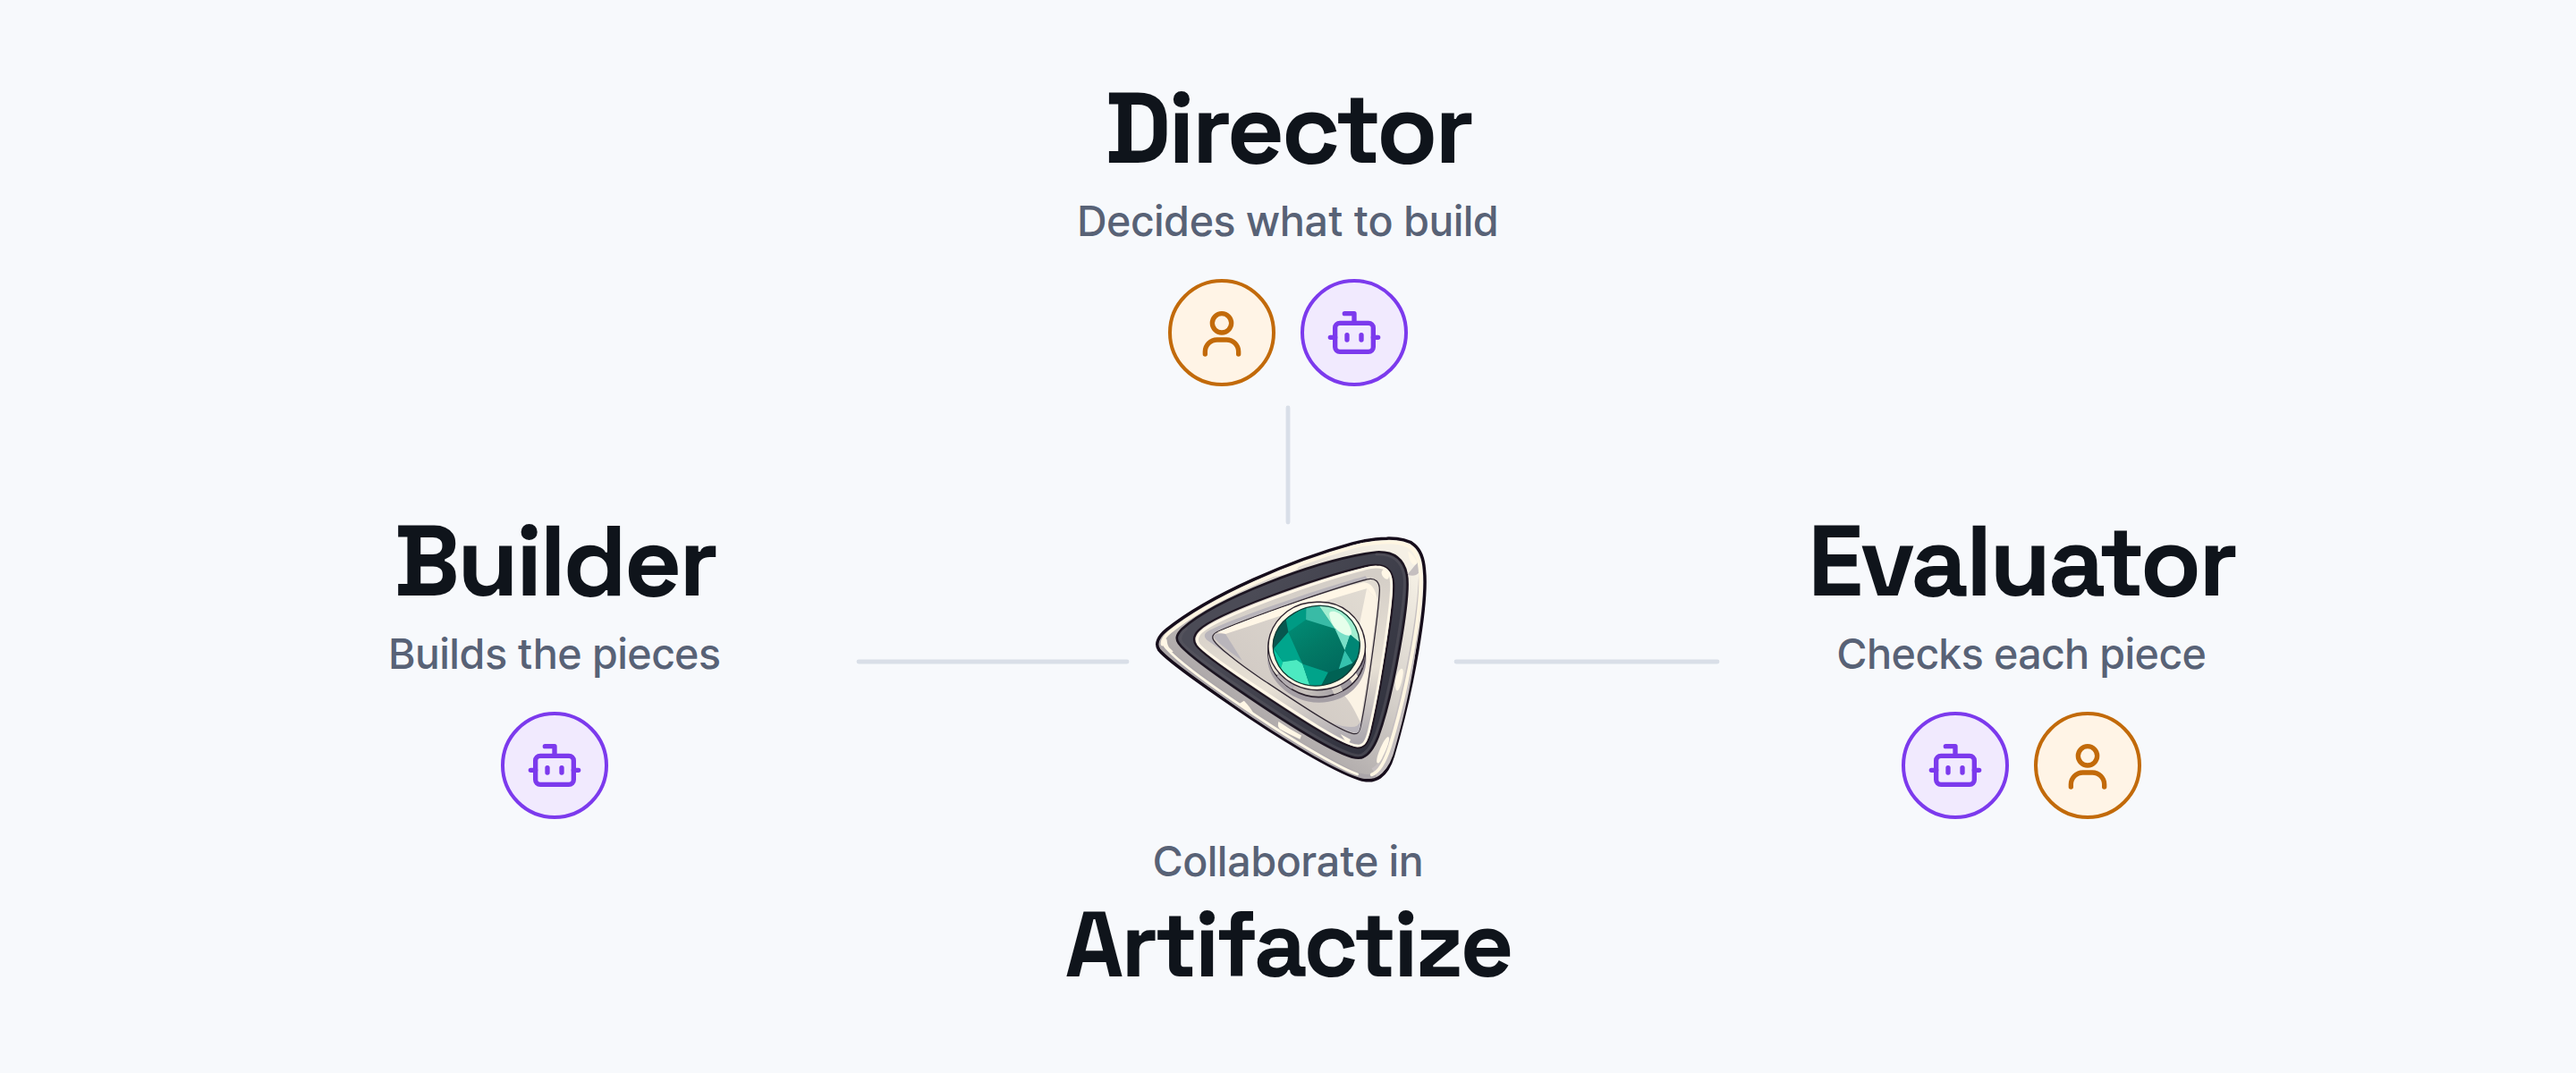
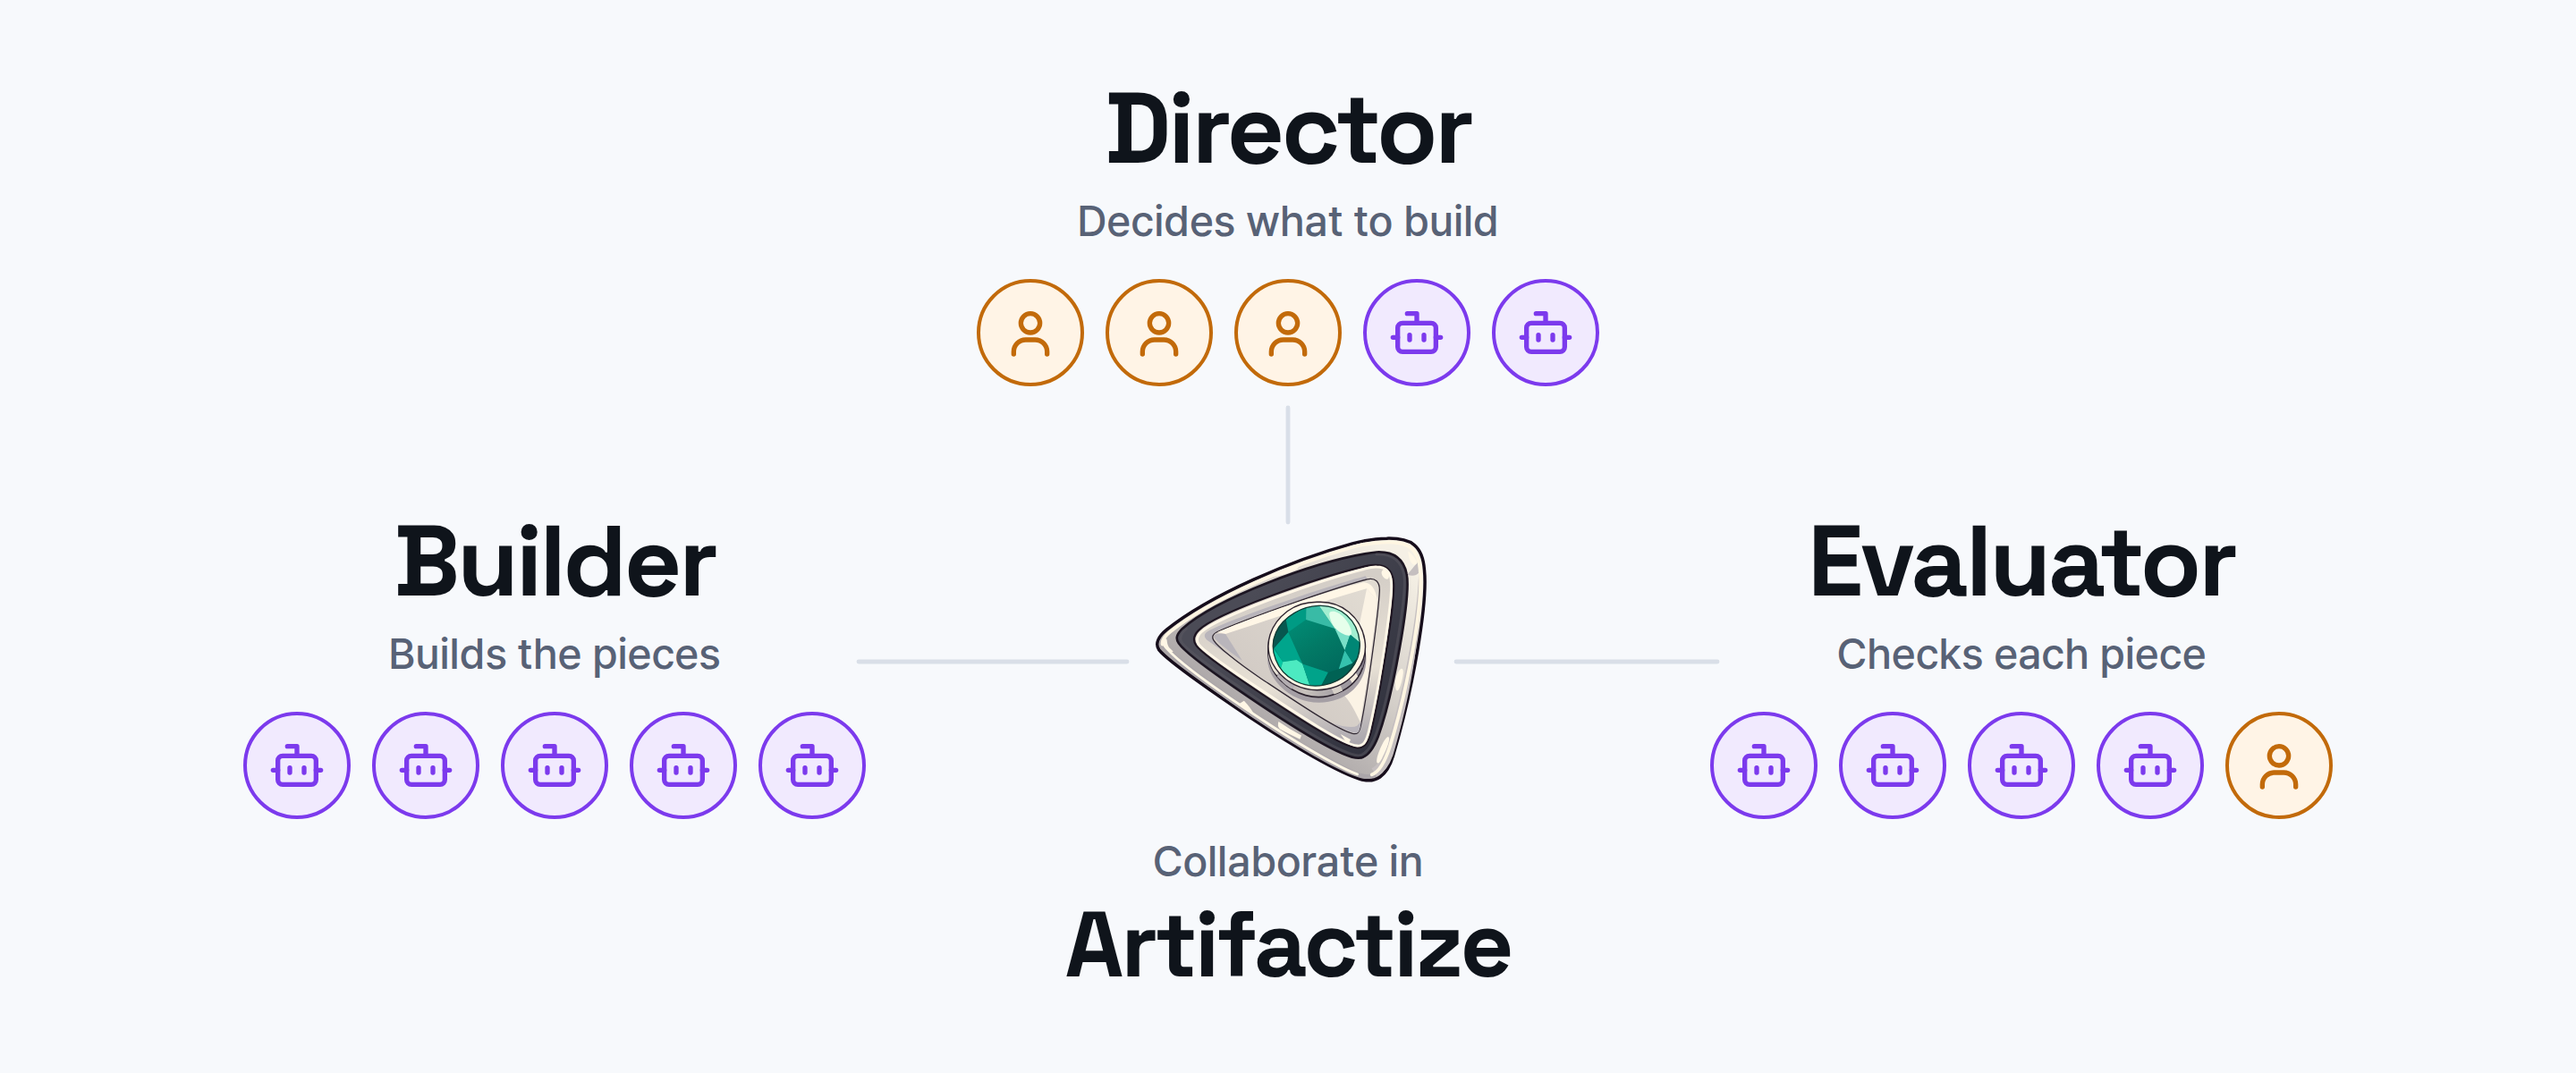
docs(others): each role in the figure shows its team of five
Director: three people and two agents; Builder: five agents; Evaluator: four agents
and one person.

diff --git a/assets/others/roles.html b/assets/others/roles.html
@@ -1,6 +1,6 @@
 <!doctype html>
 <!-- Collaborating in Artifactize: the work splits into three roles around it, and each role
-     shows who takes part in it, people, AI agents or both. capture.mts renders it into
+     shows its team of five, people and AI agents. capture.mts renders it into
      roles.en.png; the README and the landing page use that image. -->
 <html lang="en">
 <head>
@@ -88,10 +88,10 @@
     font: 500 24px/1 var(--sans);
   }
 
-  /* Who takes part in the role. */
+  /* The team that takes the role: five members, people and AI agents. */
   .who {
     display: flex;
-    gap: 14px;
+    gap: 12px;
     margin-top: 20px;
   }
   .who span {
@@ -129,6 +129,9 @@
     <p>Decides what to build</p>
     <div class="who">
       <span class="human"><svg><use href="#i-person"/></svg></span>
+      <span class="human"><svg><use href="#i-person"/></svg></span>
+      <span class="human"><svg><use href="#i-person"/></svg></span>
+      <span class="agent"><svg><use href="#i-agent"/></svg></span>
       <span class="agent"><svg><use href="#i-agent"/></svg></span>
     </div>
   </section>
@@ -138,6 +141,10 @@
     <p>Builds the pieces</p>
     <div class="who">
       <span class="agent"><svg><use href="#i-agent"/></svg></span>
+      <span class="agent"><svg><use href="#i-agent"/></svg></span>
+      <span class="agent"><svg><use href="#i-agent"/></svg></span>
+      <span class="agent"><svg><use href="#i-agent"/></svg></span>
+      <span class="agent"><svg><use href="#i-agent"/></svg></span>
     </div>
   </section>
 
@@ -145,6 +152,9 @@
     <h2>Evaluator</h2>
     <p>Checks each piece</p>
     <div class="who">
+      <span class="agent"><svg><use href="#i-agent"/></svg></span>
+      <span class="agent"><svg><use href="#i-agent"/></svg></span>
+      <span class="agent"><svg><use href="#i-agent"/></svg></span>
       <span class="agent"><svg><use href="#i-agent"/></svg></span>
       <span class="human"><svg><use href="#i-person"/></svg></span>
     </div>

diff --git a/website/landing/index.html b/website/landing/index.html
@@ -88,8 +88,8 @@
       <h1 id="hero-title">Build together on an <em><span class="nowrap">Artifact Graph</span></em>.</h1>
       <figure class="hero-roles">
         <img src="/media/roles.en.png" width="1440" height="600" loading="eager" decoding="async"
-             alt="Collaborate in Artifactize: the work splits into three roles around it. As Director, a person and an AI agent decide what to build; as Builder, an AI agent builds the pieces; as Evaluator, an AI agent and a person check each piece."
-             data-ko-alt="Artifactize에서 함께 일하기: 일은 Artifactize를 중심으로 세 역할로 나뉩니다. Director로서 사람과 AI 에이전트가 무엇을 만들지 정하고, Builder로서 AI 에이전트가 조각을 만들며, Evaluator로서 AI 에이전트와 사람이 조각마다 검사합니다.">
+             alt="Collaborate in Artifactize: the work splits into three roles around it. As Director, three people and two AI agents decide what to build; as Builder, five AI agents build the pieces; as Evaluator, four AI agents and one person check each piece."
+             data-ko-alt="Artifactize에서 함께 일하기: 일은 Artifactize를 중심으로 세 역할로 나뉩니다. Director는 사람 셋과 AI 에이전트 둘이 무엇을 만들지 정하고, Builder는 AI 에이전트 다섯이 조각을 만들며, Evaluator는 AI 에이전트 넷과 사람 하나가 조각마다 검사합니다.">
       </figure>
       <div class="cta">
         <a data-locale="en" class="btn btn-primary" href="#story">See how it works <span aria-hidden="true">↓</span></a>

diff --git a/assets/readme/README.kr.md b/assets/readme/README.kr.md
@@ -8,7 +8,7 @@
 
 <p align="center">
   <img src="../others/roles.en.png" width="800"
-       alt="Artifactize에서 함께 일하기: 일은 Artifactize를 중심으로 세 역할로 나뉩니다. Director로서 사람과 AI 에이전트가 무엇을 만들지 정하고, Builder로서 AI 에이전트가 조각을 만들며, Evaluator로서 AI 에이전트와 사람이 조각마다 검사합니다.">
+       alt="Artifactize에서 함께 일하기: 일은 Artifactize를 중심으로 세 역할로 나뉩니다. Director는 사람 셋과 AI 에이전트 둘이 무엇을 만들지 정하고, Builder는 AI 에이전트 다섯이 조각을 만들며, Evaluator는 AI 에이전트 넷과 사람 하나가 조각마다 검사합니다.">
 </p>
 
 **누구를 위한 도구인가요?**

diff --git a/README.md b/README.md
@@ -8,7 +8,7 @@ English · [한국어](assets/readme/README.kr.md)
 
 <p align="center">
   <img src="assets/others/roles.en.png" width="800"
-       alt="Collaborate in Artifactize: the work splits into three roles around it. As Director, a person and an AI agent decide what to build; as Builder, an AI agent builds the pieces; as Evaluator, an AI agent and a person check each piece.">
+       alt="Collaborate in Artifactize: the work splits into three roles around it. As Director, three people and two AI agents decide what to build; as Builder, five AI agents build the pieces; as Evaluator, four AI agents and one person check each piece.">
 </p>
 
 **Who is it for?**
